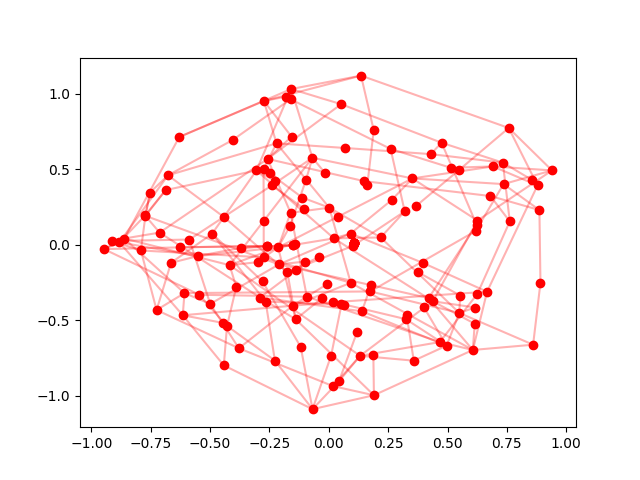
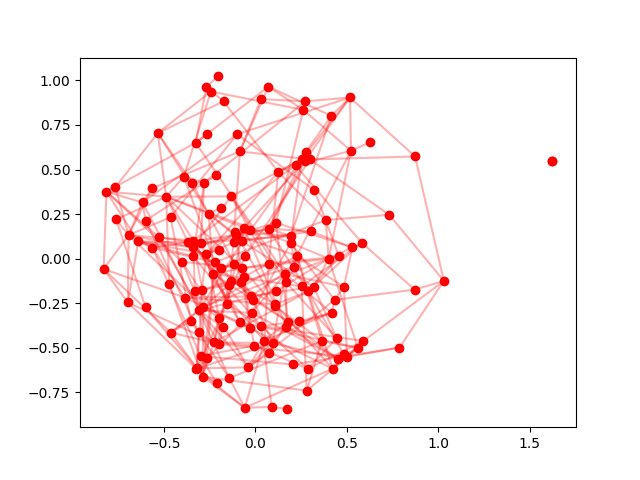
change example

diff --git a/cse.py b/cse.py
@@ -2,6 +2,7 @@ import numpy as np
 import matplotlib.pyplot as plt
 import tqdm
 
+
 def cse(D):
     n, m = D.shape
     assert n == m
@@ -21,10 +22,11 @@ def cse(D):
     X = np.sqrt(w[-d:]) * v[:, -d:]
     return X
 
+
 def embed_and_plot_graph(A, filename="embedding.png", label=False):
     n, _ = A.shape
     print("graph:")
-    print(A)
+    print(0 + A)
     print("computing distances from adjacency matrix...")
     # floyd-warshall
     D = np.ones((n, n), dtype=float)
@@ -36,10 +38,10 @@ def embed_and_plot_graph(A, filename="embedding.png", label=False):
                 D[i, j] = min(D[i, j], D[i, k] + D[k, j])
     print(D)
     # remove infinities
-    D = np.clip(D, 0, np.log(n))
+    D = np.clip(D, 0, 3.2*np.log(n)) # TODO: automatically tune?
     print("computing embedding...")
     X = cse(D)[:,-2:]
-    print(X.T.round(2))
+    print(X.round(2))
     print("creating and saving plot...")
     plt.scatter(*X.T, color="red")
     ij = np.where(np.triu(A) == 1)
@@ -56,11 +58,13 @@ def embed_and_plot_graph(A, filename="embedding.png", label=False):
 
 # test
 if __name__ == "__main__":
-    n = 150
-    p = 0.02
     np.random.seed(42)
+    # build random adjacency matrix, Erdos-Reyni model
+    n = 150
+    p = 0.03
     G = np.zeros((n, n))
     G[np.triu_indices(n, k=1)] = np.random.random(n*(n-1)//2)
     G += G.T
     G = G < p
+    # embed and plot graph
     embed_and_plot_graph(G)

diff --git a/README.md b/README.md
@@ -5,3 +5,14 @@ Playing around with constant shift embedding method for graph layout
 It doesn't look that bad!
 
 ![embedded graph](embedding.png)
+
+TODO:
+
+* Document
+* Think more carefully about clipping strategies for infinite (and
+  large) distances
+* Improve efficiency:
+    * Implicit symmetry in graph generation, Floyd's algorothm, and 
+      embedding algorithm (centralisation step may be problematic?)
+    * Can I reduce the number of calls to eigh from 2 to 1?
+* Improve visualisation
